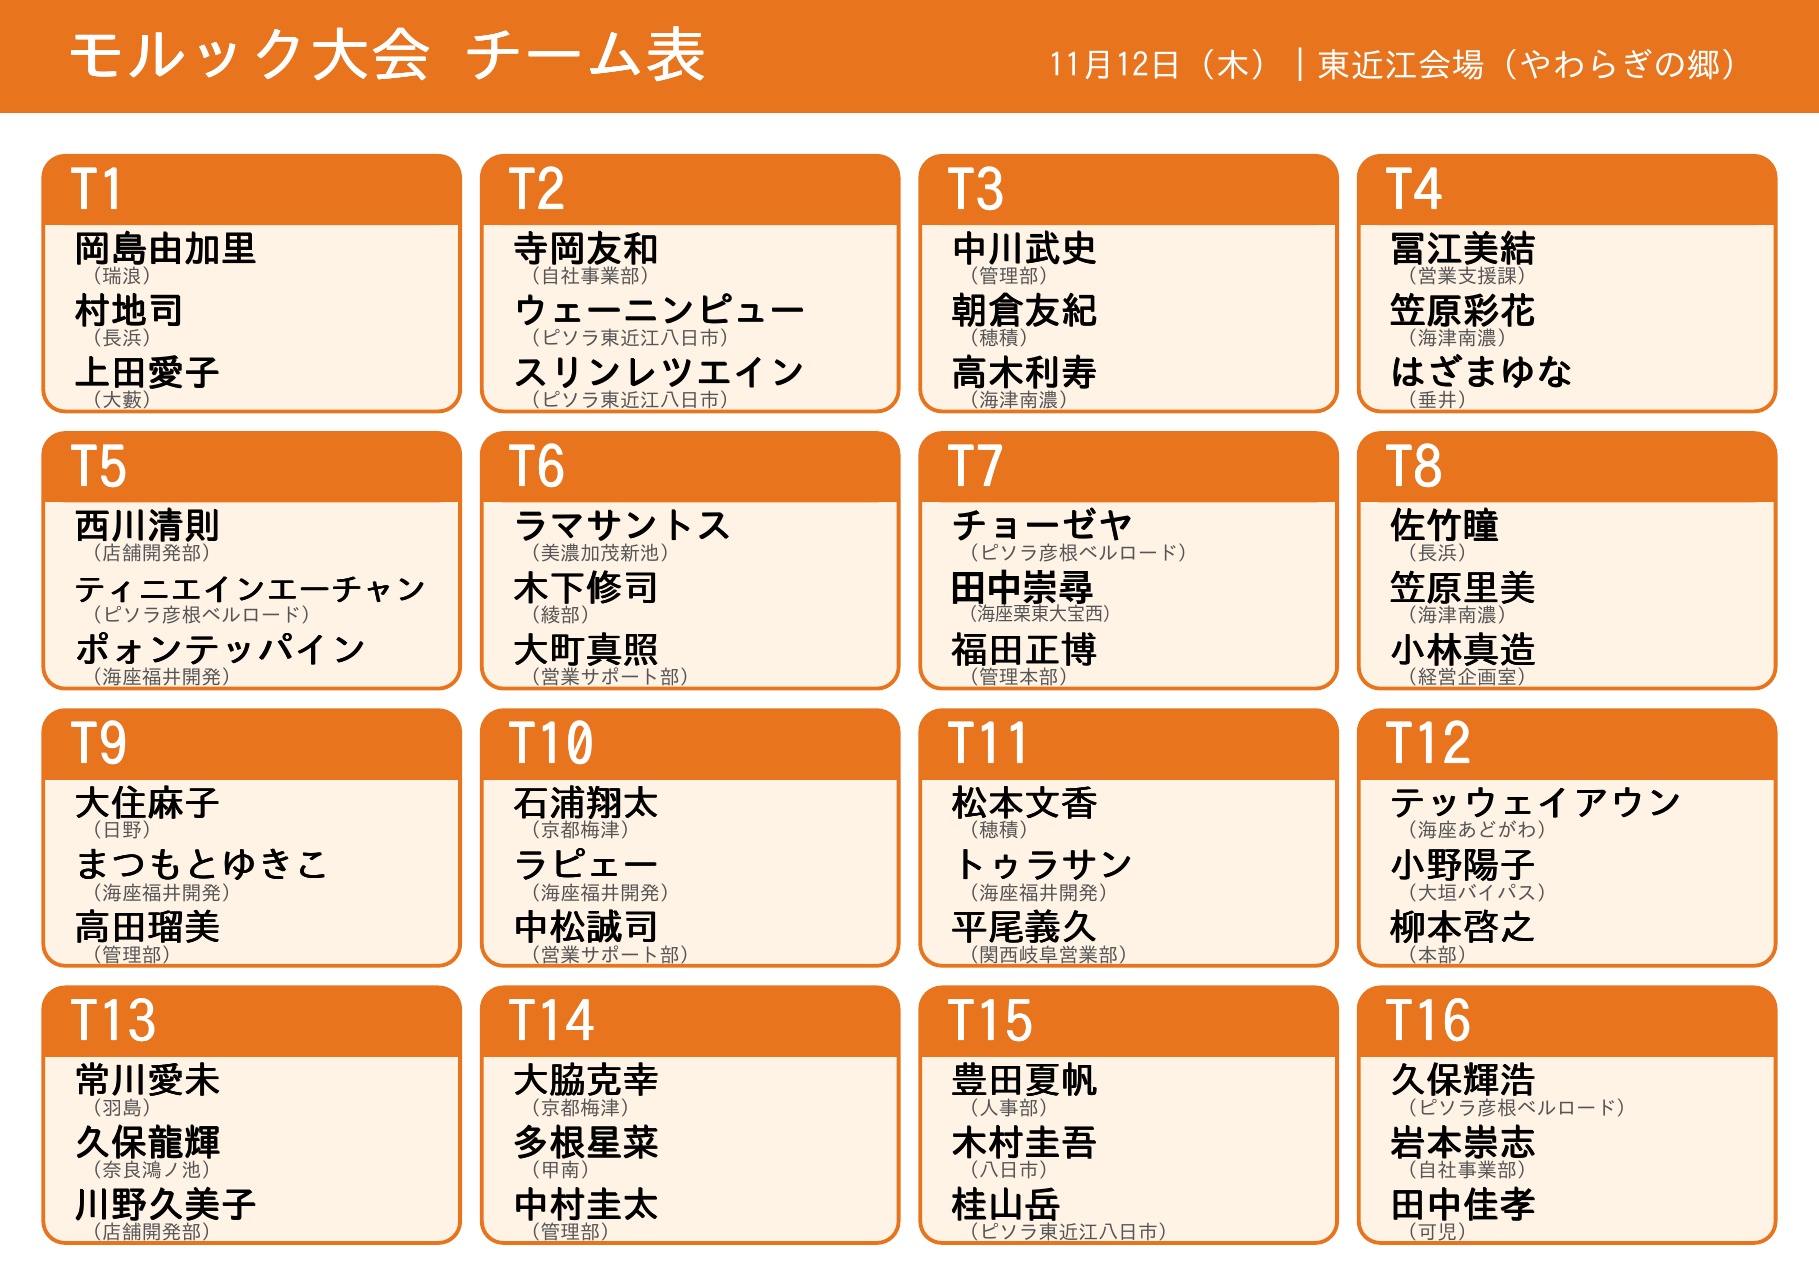
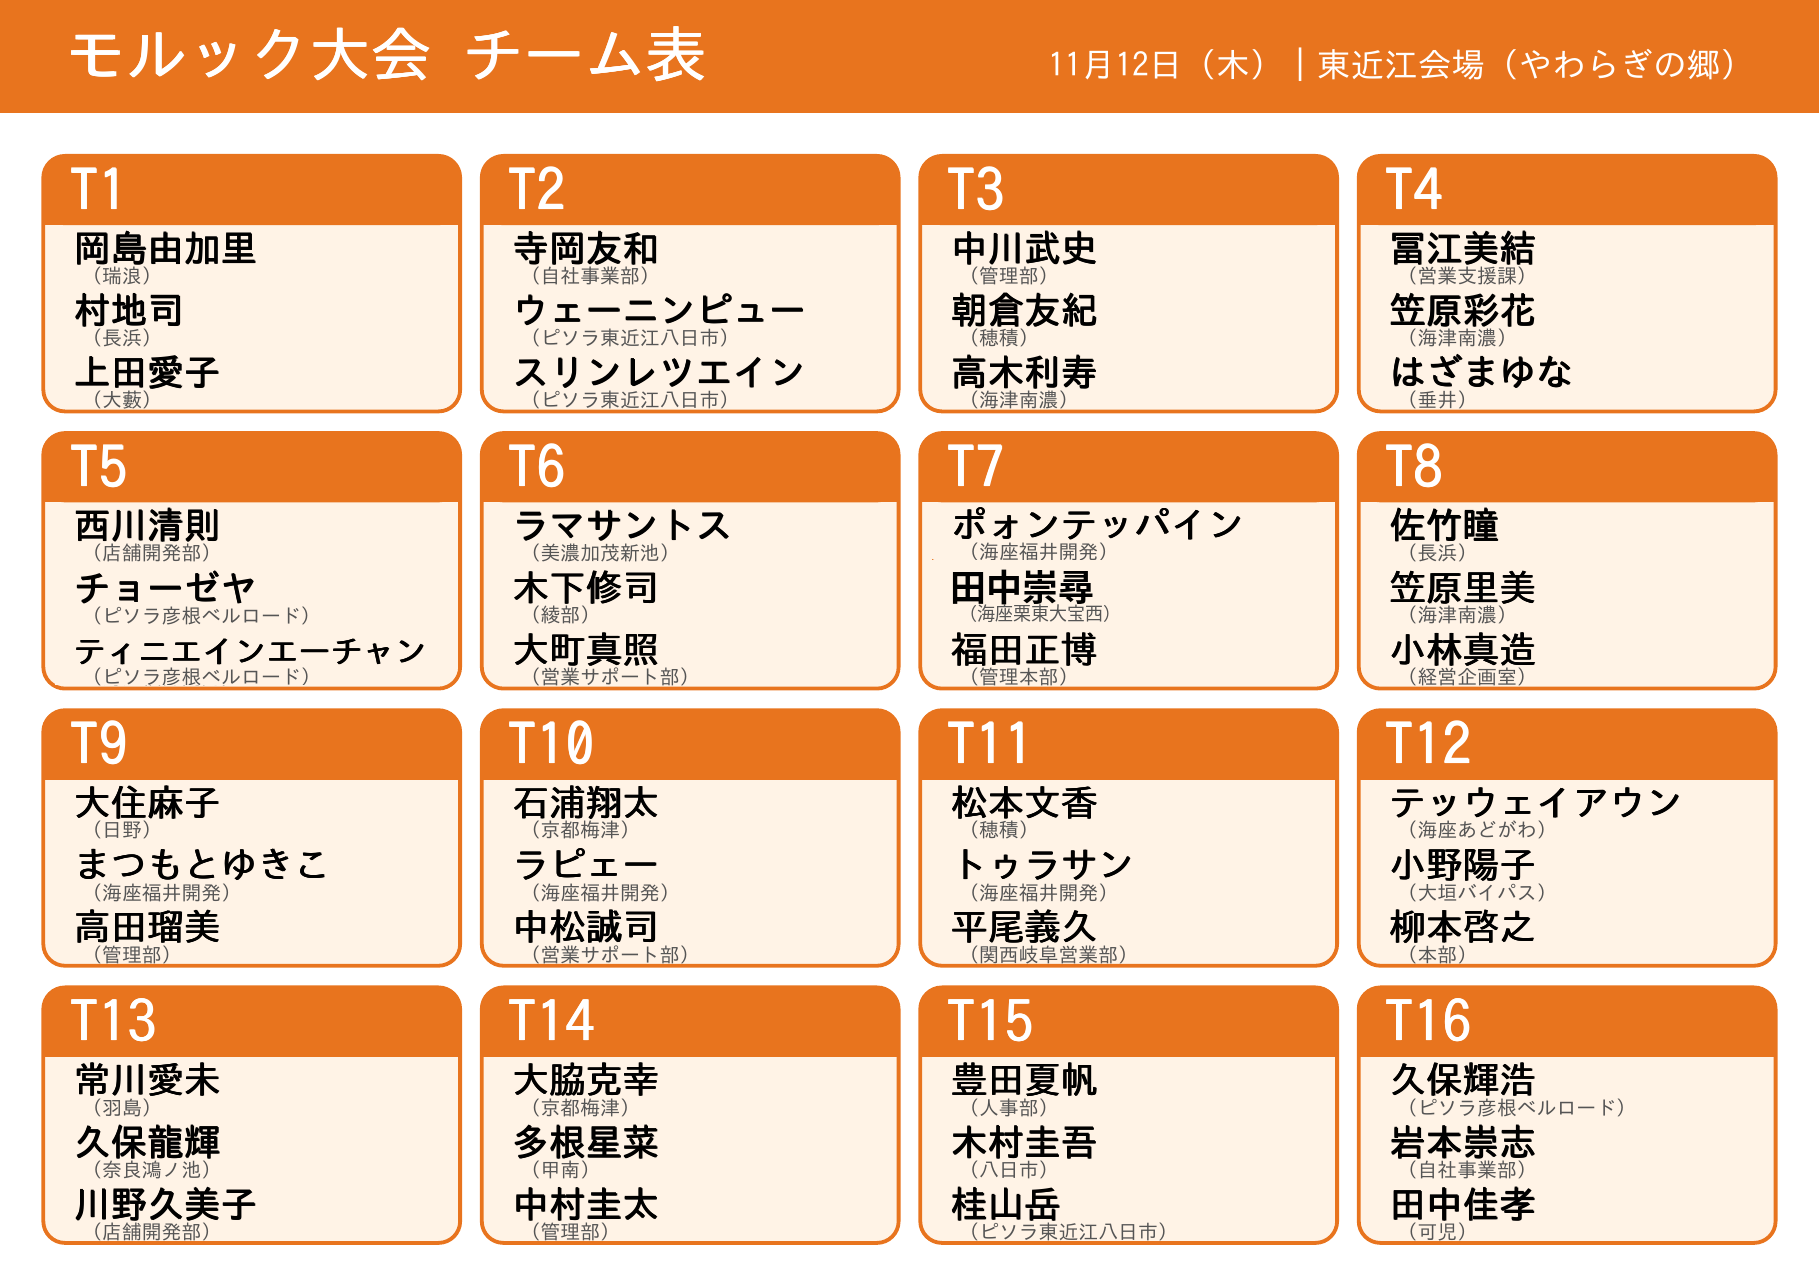
11/12 東近江: T5/T7を人事部修正版に合わせて修正（チョーゼヤ→T5、ポォン→T7）
Claude-Session: https://claude.ai/code/session_016S7BseK3NjyrP4teWX7u2A

Changed region(s): [[0.0308, 0.4351, 0.2155, 0.5284], [0.5234, 0.373, 0.6773, 0.4351]]

diff --git a/event/higashiomi/index.html b/event/higashiomi/index.html
@@ -145,7 +145,7 @@ footer{text-align:center;font-size:13px;color:#666;padding:20px 12px 40px}
 <footer>ファイブスター労働組合｜労使共同イベント</footer>
 <script>
 var SURVEY_URL="https://forms.gle/e9n7PZBZQ5QafZvP6";   // ←アンケート確定後にここへURLを入れる
-var TEAM=[{"label": "T1", "court": "", "members": ["岡島由加里（瑞浪）", "村地司（長浜）", "上田愛子（大藪）"], "games": ["1回目　13:30〜13:48　コート1　対 T16", "2回目　13:51〜14:09　コート1　対 T15", "3回目　14:12〜14:30　コート1　対 T14"]}, {"label": "T2", "court": "", "members": ["寺岡友和（自社事業部）", "ウェーニンピュー（ピソラ東近江八日市）", "スリンレツエイン（ピソラ東近江八日市）"], "games": ["1回目　13:30〜13:48　コート2　対 T15", "2回目　13:51〜14:09　コート3　対 T13", "3回目　14:12〜14:30　コート4　対 T11"]}, {"label": "T3", "court": "", "members": ["中川武史（管理部）", "朝倉友紀（穂積）", "高木利寿（海津南濃）"], "games": ["1回目　13:30〜13:48　コート3　対 T14", "2回目　13:51〜14:09　コート4　対 T12", "3回目　14:12〜14:30　コート5　対 T10"]}, {"label": "T4", "court": "", "members": ["冨江美結（営業支援課）", "笠原彩花（海津南濃）", "はざまゆな（垂井）"], "games": ["1回目　13:30〜13:48　コート4　対 T13", "2回目　13:51〜14:09　コート5　対 T11", "3回目　14:12〜14:30　コート6　対 T9"]}, {"label": "T5", "court": "", "members": ["西川清則（店舗開発部）", "ティニエインエーチャン（ピソラ彦根ベルロード）", "ポォンテッパイン（海座福井開発）"], "games": ["1回目　13:30〜13:48　コート5　対 T12", "2回目　13:51〜14:09　コート6　対 T10", "3回目　14:12〜14:30　コート7　対 T8"]}, {"label": "T6", "court": "", "members": ["ラマサントス（美濃加茂新池）", "木下修司（綾部）", "大町真照（営業サポート部）"], "games": ["1回目　13:30〜13:48　コート6　対 T11", "2回目　13:51〜14:09　コート7　対 T9", "3回目　14:12〜14:30　コート8　対 T7"]}, {"label": "T7", "court": "", "members": ["チョーゼヤ（ピソラ彦根ベルロード）", "田中崇尋（海座栗東大宝西）", "福田正博（管理本部）"], "games": ["1回目　13:30〜13:48　コート7　対 T10", "2回目　13:51〜14:09　コート8　対 T8", "3回目　14:12〜14:30　コート8　対 T6"]}, {"label": "T8", "court": "", "members": ["佐竹瞳（長浜）", "笠原里美（海津南濃）", "小林真造（経営企画室）"], "games": ["1回目　13:30〜13:48　コート8　対 T9", "2回目　13:51〜14:09　コート8　対 T7", "3回目　14:12〜14:30　コート7　対 T5"]}, {"label": "T9", "court": "", "members": ["大住麻子（日野）", "まつもとゆきこ（海座福井開発）", "高田瑠美（管理部）"], "games": ["1回目　13:30〜13:48　コート8　対 T8", "2回目　13:51〜14:09　コート7　対 T6", "3回目　14:12〜14:30　コート6　対 T4"]}, {"label": "T10", "court": "", "members": ["石浦翔太（京都梅津）", "ラピェー（海座福井開発）", "中松誠司（営業サポート部）"], "games": ["1回目　13:30〜13:48　コート7　対 T7", "2回目　13:51〜14:09　コート6　対 T5", "3回目　14:12〜14:30　コート5　対 T3"]}, {"label": "T11", "court": "", "members": ["松本文香（穂積）", "トゥラサン（海座福井開発）", "平尾義久（関西岐阜営業部）"], "games": ["1回目　13:30〜13:48　コート6　対 T6", "2回目　13:51〜14:09　コート5　対 T4", "3回目　14:12〜14:30　コート4　対 T2"]}, {"label": "T12", "court": "", "members": ["テッウェイアウン（海座あどがわ）", "小野陽子（大垣バイパス）", "柳本啓之（本部）"], "games": ["1回目　13:30〜13:48　コート5　対 T5", "2回目　13:51〜14:09　コート4　対 T3", "3回目　14:12〜14:30　コート3　対 T16"]}, {"label": "T13", "court": "", "members": ["常川愛未（羽島）", "久保龍輝（奈良鴻ノ池）", "川野久美子（店舗開発部）"], "games": ["1回目　13:30〜13:48　コート4　対 T4", "2回目　13:51〜14:09　コート3　対 T2", "3回目　14:12〜14:30　コート2　対 T15"]}, {"label": "T14", "court": "", "members": ["大脇克幸（京都梅津）", "多根星菜（甲南）", "中村圭太（管理部）"], "games": ["1回目　13:30〜13:48　コート3　対 T3", "2回目　13:51〜14:09　コート2　対 T16", "3回目　14:12〜14:30　コート1　対 T1"]}, {"label": "T15", "court": "", "members": ["豊田夏帆（人事部）", "木村圭吾（八日市）", "桂山岳（ピソラ東近江八日市）"], "games": ["1回目　13:30〜13:48　コート2　対 T2", "2回目　13:51〜14:09　コート1　対 T1", "3回目　14:12〜14:30　コート2　対 T13"]}, {"label": "T16", "court": "", "members": ["久保輝浩（ピソラ彦根ベルロード）", "岩本崇志（自社事業部）", "田中佳孝（可児）"], "games": ["1回目　13:30〜13:48　コート1　対 T1", "2回目　13:51〜14:09　コート2　対 T14", "3回目　14:12〜14:30　コート3　対 T12"]}];
+var TEAM=[{"label": "T1", "court": "", "members": ["岡島由加里（瑞浪）", "村地司（長浜）", "上田愛子（大藪）"], "games": ["1回目　13:30〜13:48　コート1　対 T16", "2回目　13:51〜14:09　コート1　対 T15", "3回目　14:12〜14:30　コート1　対 T14"]}, {"label": "T2", "court": "", "members": ["寺岡友和（自社事業部）", "ウェーニンピュー（ピソラ東近江八日市）", "スリンレツエイン（ピソラ東近江八日市）"], "games": ["1回目　13:30〜13:48　コート2　対 T15", "2回目　13:51〜14:09　コート3　対 T13", "3回目　14:12〜14:30　コート4　対 T11"]}, {"label": "T3", "court": "", "members": ["中川武史（管理部）", "朝倉友紀（穂積）", "高木利寿（海津南濃）"], "games": ["1回目　13:30〜13:48　コート3　対 T14", "2回目　13:51〜14:09　コート4　対 T12", "3回目　14:12〜14:30　コート5　対 T10"]}, {"label": "T4", "court": "", "members": ["冨江美結（営業支援課）", "笠原彩花（海津南濃）", "はざまゆな（垂井）"], "games": ["1回目　13:30〜13:48　コート4　対 T13", "2回目　13:51〜14:09　コート5　対 T11", "3回目　14:12〜14:30　コート6　対 T9"]}, {"label": "T5", "court": "", "members": ["西川清則（店舗開発部）", "チョーゼヤ（ピソラ彦根ベルロード）", "ティニエインエーチャン（ピソラ彦根ベルロード）"], "games": ["1回目　13:30〜13:48　コート5　対 T12", "2回目　13:51〜14:09　コート6　対 T10", "3回目　14:12〜14:30　コート7　対 T8"]}, {"label": "T6", "court": "", "members": ["ラマサントス（美濃加茂新池）", "木下修司（綾部）", "大町真照（営業サポート部）"], "games": ["1回目　13:30〜13:48　コート6　対 T11", "2回目　13:51〜14:09　コート7　対 T9", "3回目　14:12〜14:30　コート8　対 T7"]}, {"label": "T7", "court": "", "members": ["ポォンテッパイン（海座福井開発）", "田中崇尋（海座栗東大宝西）", "福田正博（管理本部）"], "games": ["1回目　13:30〜13:48　コート7　対 T10", "2回目　13:51〜14:09　コート8　対 T8", "3回目　14:12〜14:30　コート8　対 T6"]}, {"label": "T8", "court": "", "members": ["佐竹瞳（長浜）", "笠原里美（海津南濃）", "小林真造（経営企画室）"], "games": ["1回目　13:30〜13:48　コート8　対 T9", "2回目　13:51〜14:09　コート8　対 T7", "3回目　14:12〜14:30　コート7　対 T5"]}, {"label": "T9", "court": "", "members": ["大住麻子（日野）", "まつもとゆきこ（海座福井開発）", "高田瑠美（管理部）"], "games": ["1回目　13:30〜13:48　コート8　対 T8", "2回目　13:51〜14:09　コート7　対 T6", "3回目　14:12〜14:30　コート6　対 T4"]}, {"label": "T10", "court": "", "members": ["石浦翔太（京都梅津）", "ラピェー（海座福井開発）", "中松誠司（営業サポート部）"], "games": ["1回目　13:30〜13:48　コート7　対 T7", "2回目　13:51〜14:09　コート6　対 T5", "3回目　14:12〜14:30　コート5　対 T3"]}, {"label": "T11", "court": "", "members": ["松本文香（穂積）", "トゥラサン（海座福井開発）", "平尾義久（関西岐阜営業部）"], "games": ["1回目　13:30〜13:48　コート6　対 T6", "2回目　13:51〜14:09　コート5　対 T4", "3回目　14:12〜14:30　コート4　対 T2"]}, {"label": "T12", "court": "", "members": ["テッウェイアウン（海座あどがわ）", "小野陽子（大垣バイパス）", "柳本啓之（本部）"], "games": ["1回目　13:30〜13:48　コート5　対 T5", "2回目　13:51〜14:09　コート4　対 T3", "3回目　14:12〜14:30　コート3　対 T16"]}, {"label": "T13", "court": "", "members": ["常川愛未（羽島）", "久保龍輝（奈良鴻ノ池）", "川野久美子（店舗開発部）"], "games": ["1回目　13:30〜13:48　コート4　対 T4", "2回目　13:51〜14:09　コート3　対 T2", "3回目　14:12〜14:30　コート2　対 T15"]}, {"label": "T14", "court": "", "members": ["大脇克幸（京都梅津）", "多根星菜（甲南）", "中村圭太（管理部）"], "games": ["1回目　13:30〜13:48　コート3　対 T3", "2回目　13:51〜14:09　コート2　対 T16", "3回目　14:12〜14:30　コート1　対 T1"]}, {"label": "T15", "court": "", "members": ["豊田夏帆（人事部）", "木村圭吾（八日市）", "桂山岳（ピソラ東近江八日市）"], "games": ["1回目　13:30〜13:48　コート2　対 T2", "2回目　13:51〜14:09　コート1　対 T1", "3回目　14:12〜14:30　コート2　対 T13"]}, {"label": "T16", "court": "", "members": ["久保輝浩（ピソラ彦根ベルロード）", "岩本崇志（自社事業部）", "田中佳孝（可児）"], "games": ["1回目　13:30〜13:48　コート1　対 T1", "2回目　13:51〜14:09　コート2　対 T14", "3回目　14:12〜14:30　コート3　対 T12"]}];
 var SEAT={"28": {"seats": 4, "names": ["田中佳孝", "豊田夏帆", "高田瑠美", "福田正博"]}, "27": {"seats": 4, "names": ["佐竹瞳", "村地司", "小野陽子", "常川愛未"]}, "26": {"seats": 4, "names": ["朝倉友紀", "松本文香", "田中崇尋", "大脇克幸"]}, "25": {"seats": 4, "names": ["ティニェインエーチャン", "チョーゼヤ", "久保輝浩"]}, "24": {"seats": 2, "names": []}, "23": {"seats": 2, "names": ["川野久美子", "中川武史"]}, "22": {"seats": 2, "names": []}, "21": {"seats": 2, "names": ["石原崇弘", "柳本啓之"]}, "38": {"seats": 2, "names": ["寺岡友和", "大橋信也"]}, "37": {"seats": 2, "names": ["平尾義久", "中松誠司"]}, "36": {"seats": 2, "names": ["中村圭太", "笹岡誠之"]}, "35": {"seats": 2, "names": ["冨江美結", "岩本崇志"]}, "34": {"seats": 6, "names": ["ラマサントス", "高木利寿", "笠原彩花", "笠原里美", "岡島ゆかq"]}, "33": {"seats": 6, "names": ["トゥラサン", "ポォンテッパイン", "まつもとゆきこ", "ラピェー", "石浦翔太", "西川清則"]}, "32": {"seats": 6, "names": ["木下修司", "小林真造", "大住麻子", "テッウェイアウン", "狭間真紀子", "多根星菜"]}, "31": {"seats": 6, "names": ["スリンレツエイン", "ウェーニンピュー", "桂山岳", "上田愛子", "若狭圭美", "大町真照"]}};
 (function(){
  var a=document.getElementById('sv');
